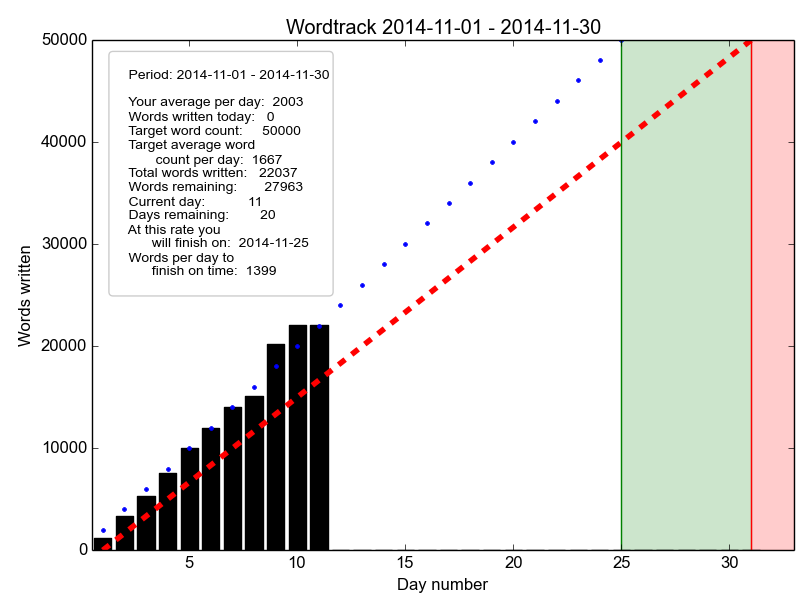
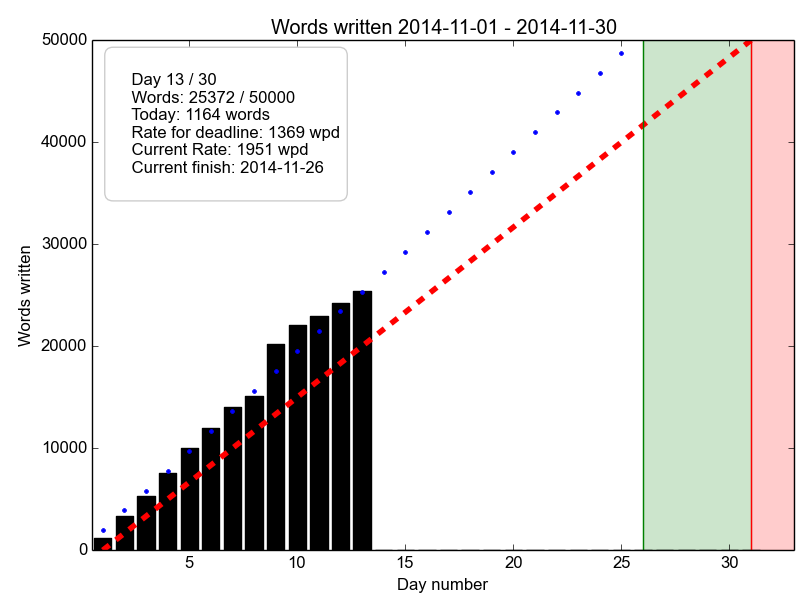
Updated readme and example image.

Changed region(s): [[0.1232, 0.031, 0.8005, 0.9003]]

diff --git a/README.md b/README.md
@@ -12,22 +12,23 @@ their display was nice and encouraging and would like to have it for
 other times of the year too:
 
 ![plot](plot_example.png)
-```
-    Period: 2014-11-01 - 2014-11-30
 
-    Your average per day:  2203
-    Words written today:   1800
-    Target word count:     50000
-    Target average word
-           count per day:  1667
-    Total words written:   22037
-    Words remaining:       27963
-    Current day:           10
-    Days remaining:        21
-    At this rate you
-          will finish on:  2014-11-23
-    Words per day to
-          finish on time:  1332
+```
+ Period: 2014-11-01 - 2014-11-30
+
+ Your average per day:  1951
+ Words written today:   1164
+ Target word count:     50000
+ Target average word
+        count per day:  1667
+ Total words written:   25372
+ Words remaining:       24628
+ Current day:           13
+ Days remaining:        18
+ At this rate you
+       will finish on:  2014-11-26
+ Words per day to
+       finish on time:  1369
 ```
 
 ## Install
